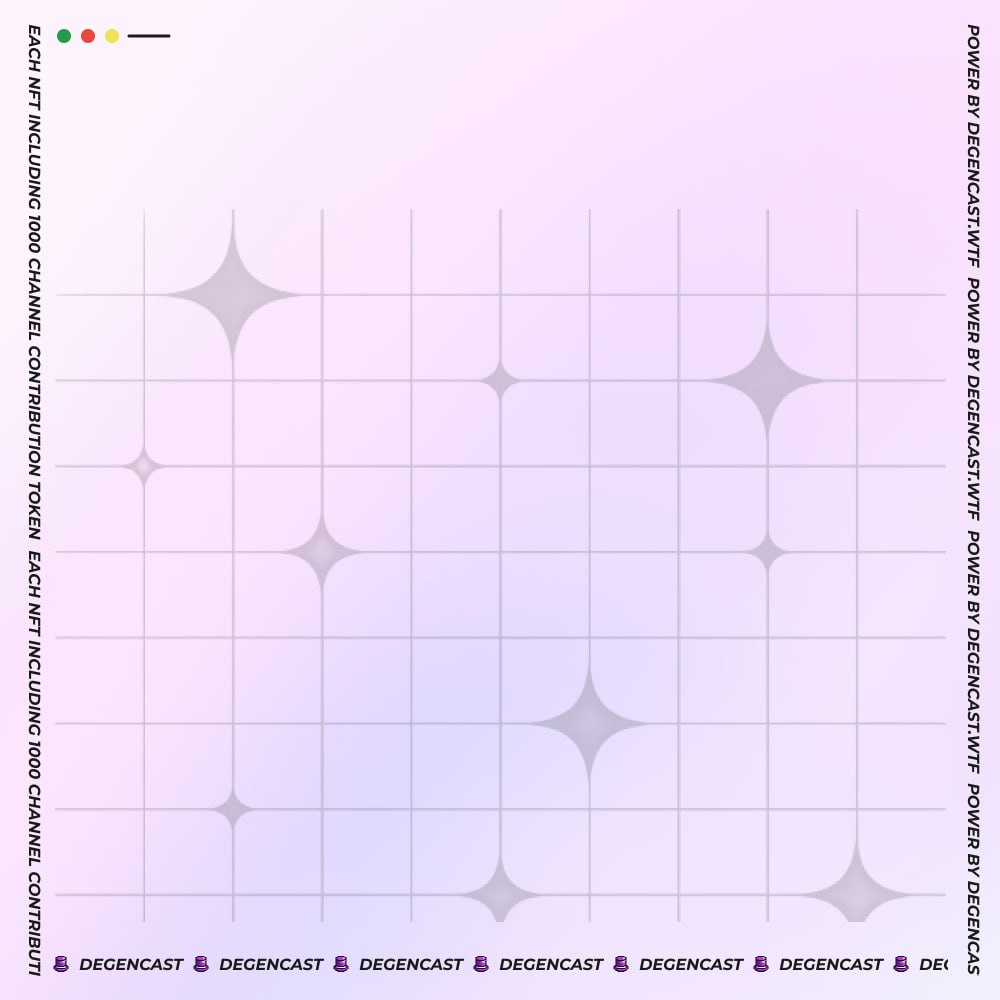
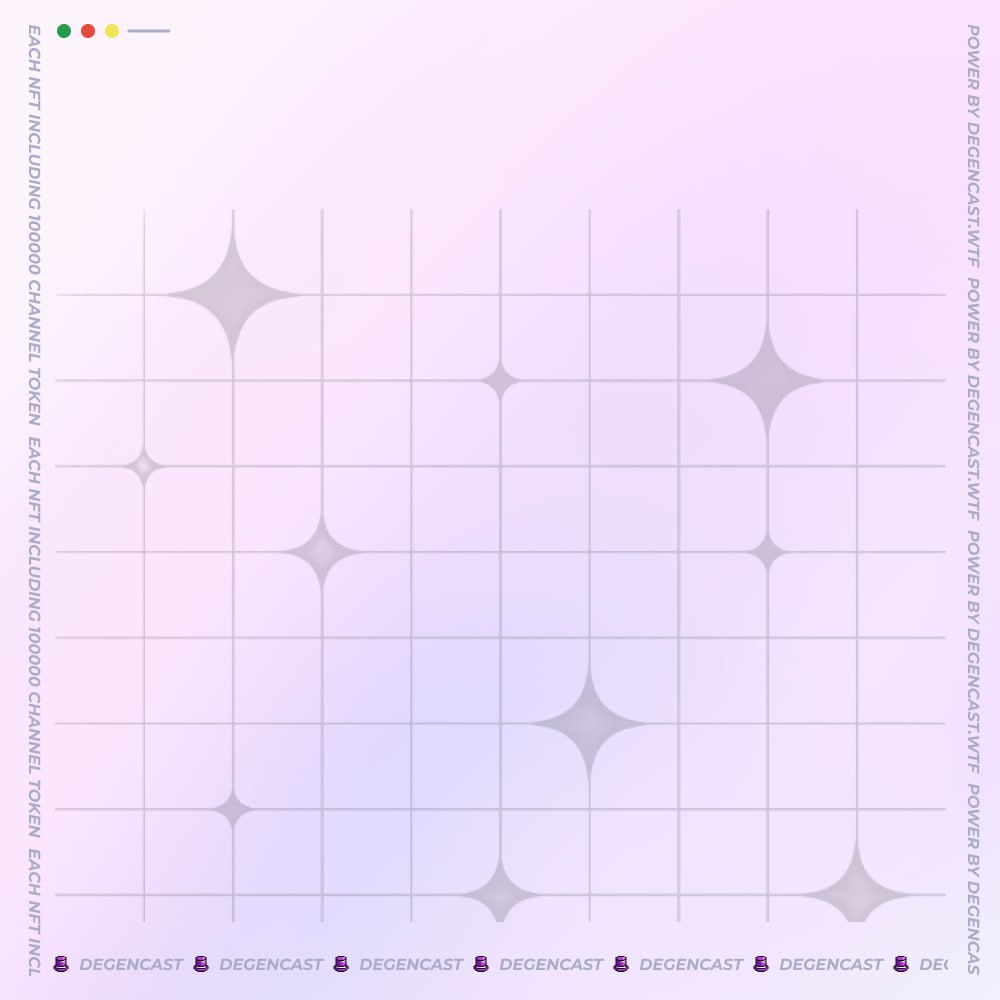
feat: default image

diff --git a/lib/cast-image/Layout.tsx b/lib/cast-image/Layout.tsx
@@ -5,20 +5,15 @@ import { getCastImageUrl } from "../cast";
 import { getEmbeds } from "../getEmbeds";
 
 const bgUrl = `${FRAMES_BASE_URL}/images/image-api/cast-bg.jpg`;
+const homeImgUrl = `${FRAMES_BASE_URL}/images/image-api/home.png`;
 export function Layout({ cast }: { cast: NeynarCast }) {
   const { imgs, videos, webpages, casts } = getEmbeds(cast);
   const hasImg = imgs.length > 0;
   const hasVideo = videos.length > 0;
   const hasWebpage = webpages.length > 0;
   const hasCast = casts.length > 0;
-  if (hasVideo || hasWebpage || hasCast) {
-    return (
-      <img
-        src={getCastImageUrl(cast.hash)}
-        style={{ width: "100%", height: "100%" }}
-      />
-    );
-  }
+  const useDefaultImg = hasVideo || hasWebpage || hasCast;
+
   return (
     <div
       style={{
@@ -37,13 +32,13 @@ export function Layout({ cast }: { cast: NeynarCast }) {
         style={{
           display: "flex",
           width: "100%",
-          marginTop: "24px",
+          marginTop: "20px",
           paddingLeft: "180px",
           paddingRight: "54px",
           height: 24,
         }}
       >
-        {cast?.channel && <ChannelInfo channel={cast.channel} />}
+        <ChannelInfo channel={cast?.channel} />
       </div>
       <div
         style={{
@@ -55,21 +50,37 @@ export function Layout({ cast }: { cast: NeynarCast }) {
           marginTop: "30px",
           display: "flex",
           flexDirection: "column",
-          gap: "30px",
-          color: "#1A1A1A",
         }}
       >
-        <UserInfo cast={cast} />
-
-        <div
-          style={{
-            flex: 1,
-            width: "100%",
-            display: "flex",
-          }}
-        >
-          <CastContent cast={cast} />
-        </div>
+        {useDefaultImg ? (
+          <img
+            src={getCastImageUrl(cast.hash)}
+            style={{ width: "100%", height: "100%" }}
+          />
+        ) : (
+          <div
+            style={{
+              width: "100%",
+              height: "100%",
+              display: "flex",
+              flexDirection: "column",
+              gap: "30px",
+              color: "#1A1A1A",
+            }}
+          >
+            {" "}
+            <UserInfo cast={cast} />
+            <div
+              style={{
+                flex: 1,
+                width: "100%",
+                display: "flex",
+              }}
+            >
+              <CastContent cast={cast} />
+            </div>
+          </div>
+        )}
       </div>
     </div>
   );
@@ -79,12 +90,16 @@ function formatDate(date: any) {
   const d = new Date(date);
   return `${d.getFullYear()}.${d.getMonth() + 1}.${d.getDate()}`;
 }
-export function ChannelInfo({ channel }: { channel: NeynarChannel }) {
+export function ChannelInfo({ channel }: { channel?: NeynarChannel }) {
   const maxTextLen = 60;
-  const { image_url, name } = channel;
+  const { image_url, id } = channel || {};
+  const channelId = id || "home";
 
-  const oneLen = name.length;
+  const oneLen = channelId.length;
   const count = Math.floor(maxTextLen / oneLen) + 2;
+
+  const symbol = channelId === "home" ? "CAST" : channelId?.toUpperCase();
+  const imageUrl = image_url || (channelId === "home" ? homeImgUrl : image_url);
   return (
     <div
       style={{
@@ -108,7 +123,7 @@ export function ChannelInfo({ channel }: { channel: NeynarChannel }) {
           }}
         >
           <img
-            src={image_url}
+            src={imageUrl}
             width={16}
             height={16}
             style={{
@@ -120,11 +135,12 @@ export function ChannelInfo({ channel }: { channel: NeynarChannel }) {
               fontStyle: "italic",
               fontSize: "16px",
               fontWeight: 700,
-              color: "#1A1A1A",
+              color: "#ACACC8",
               textTransform: "uppercase",
+              lineHeight: "24px",
             }}
           >
-            {name}
+            ${symbol}
           </span>
         </div>
       ))}
